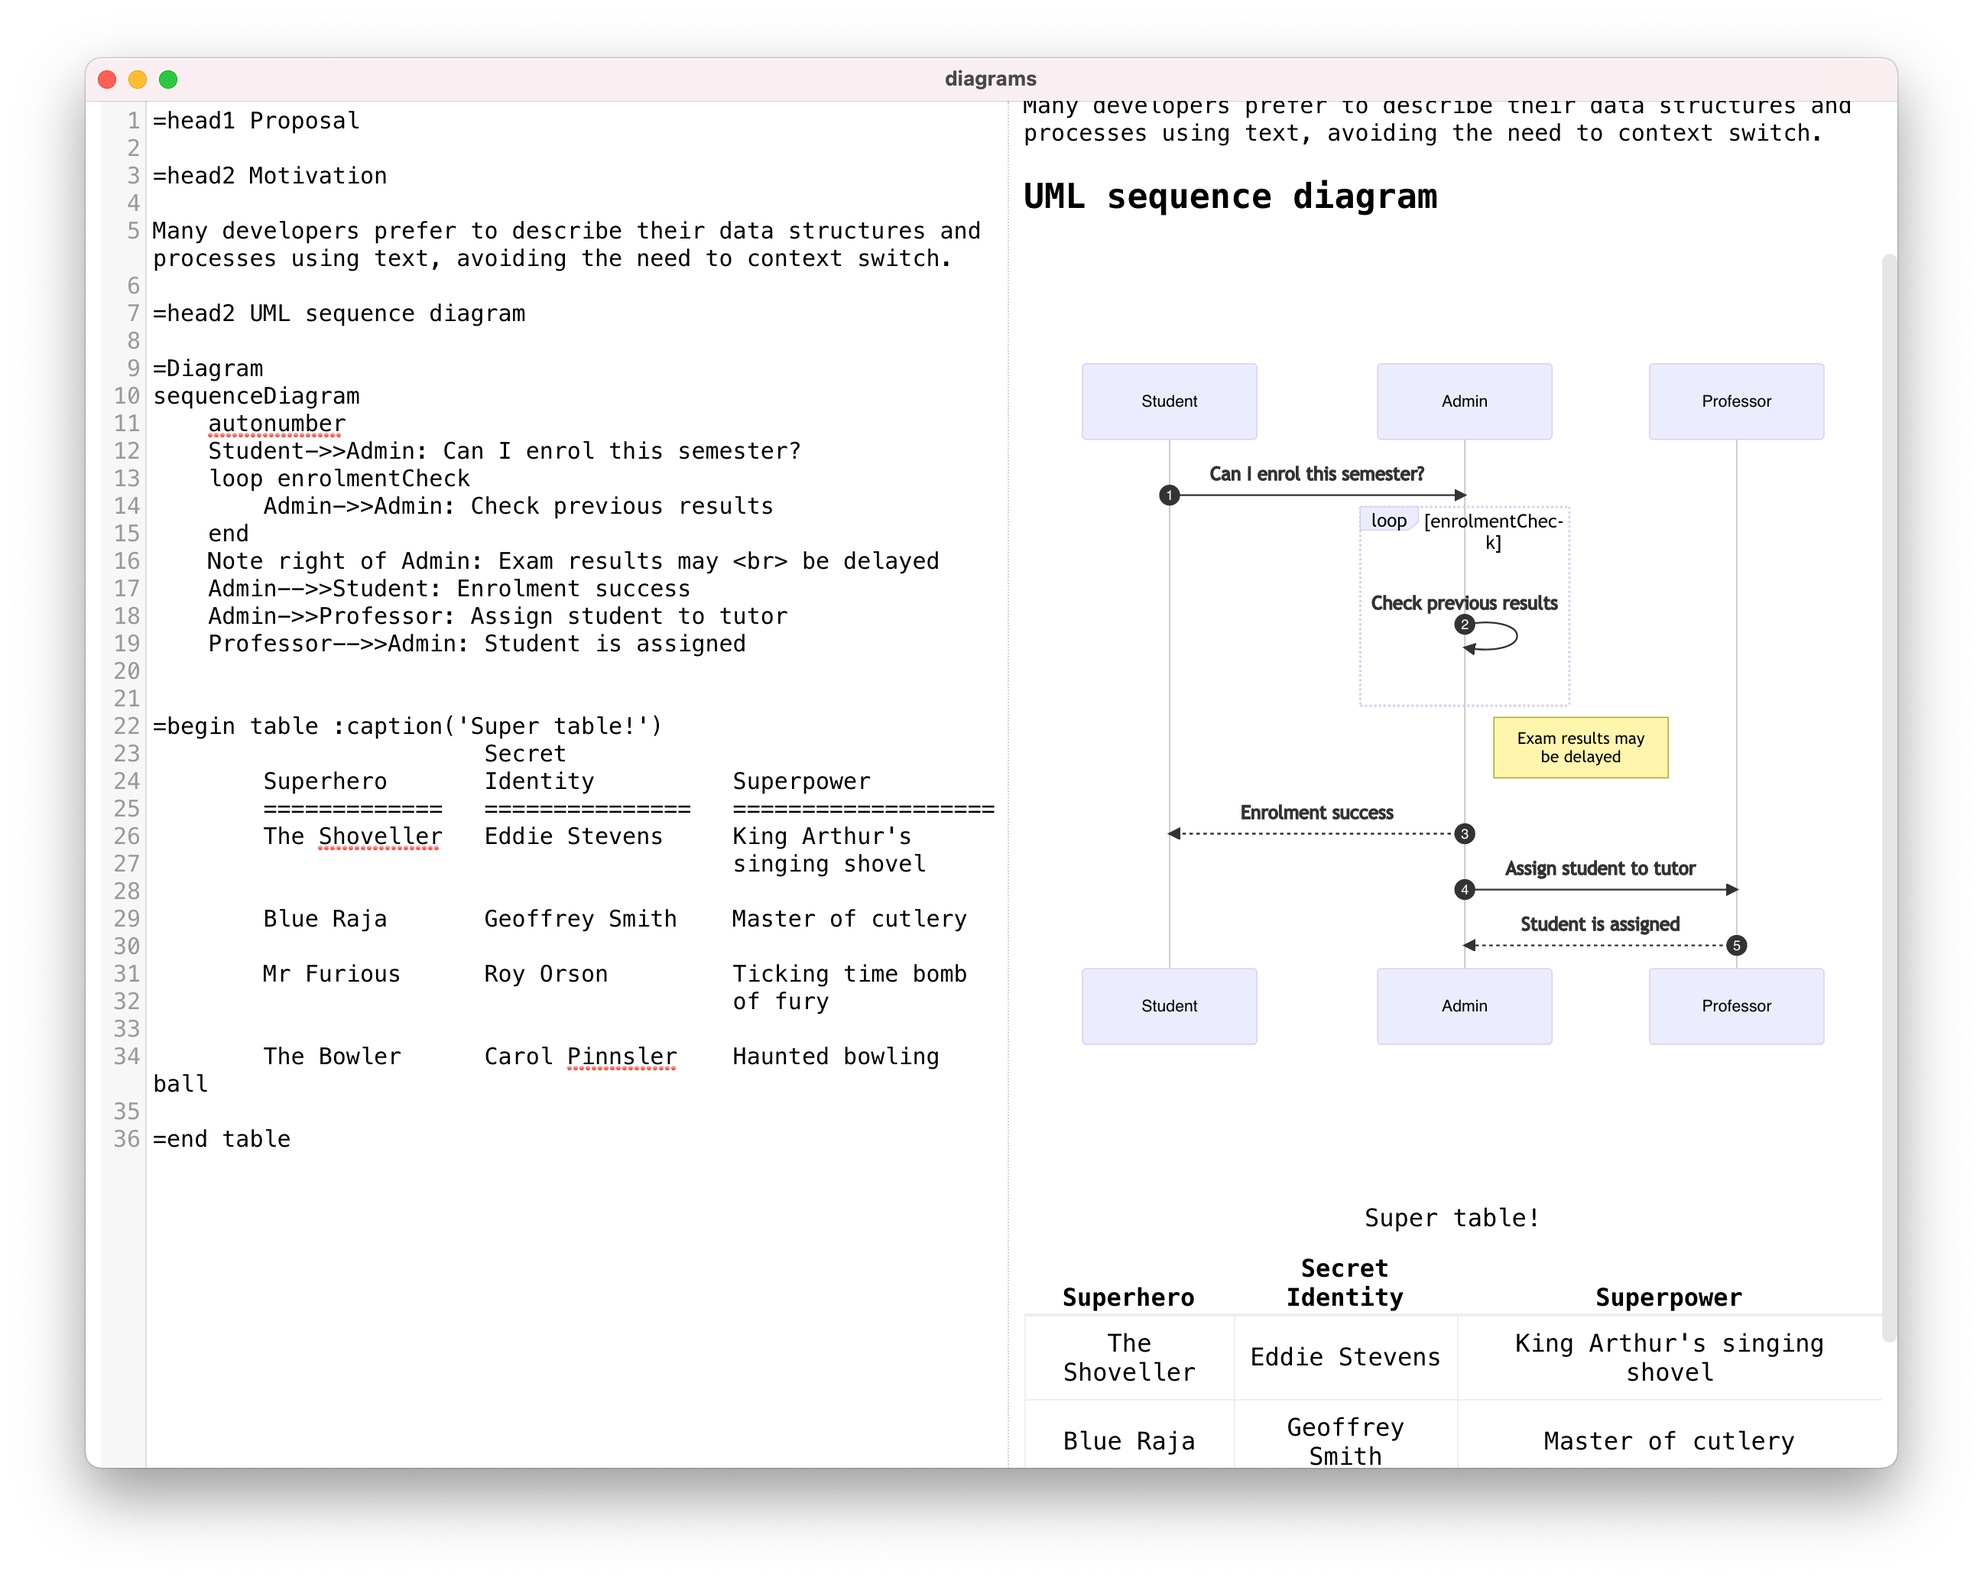
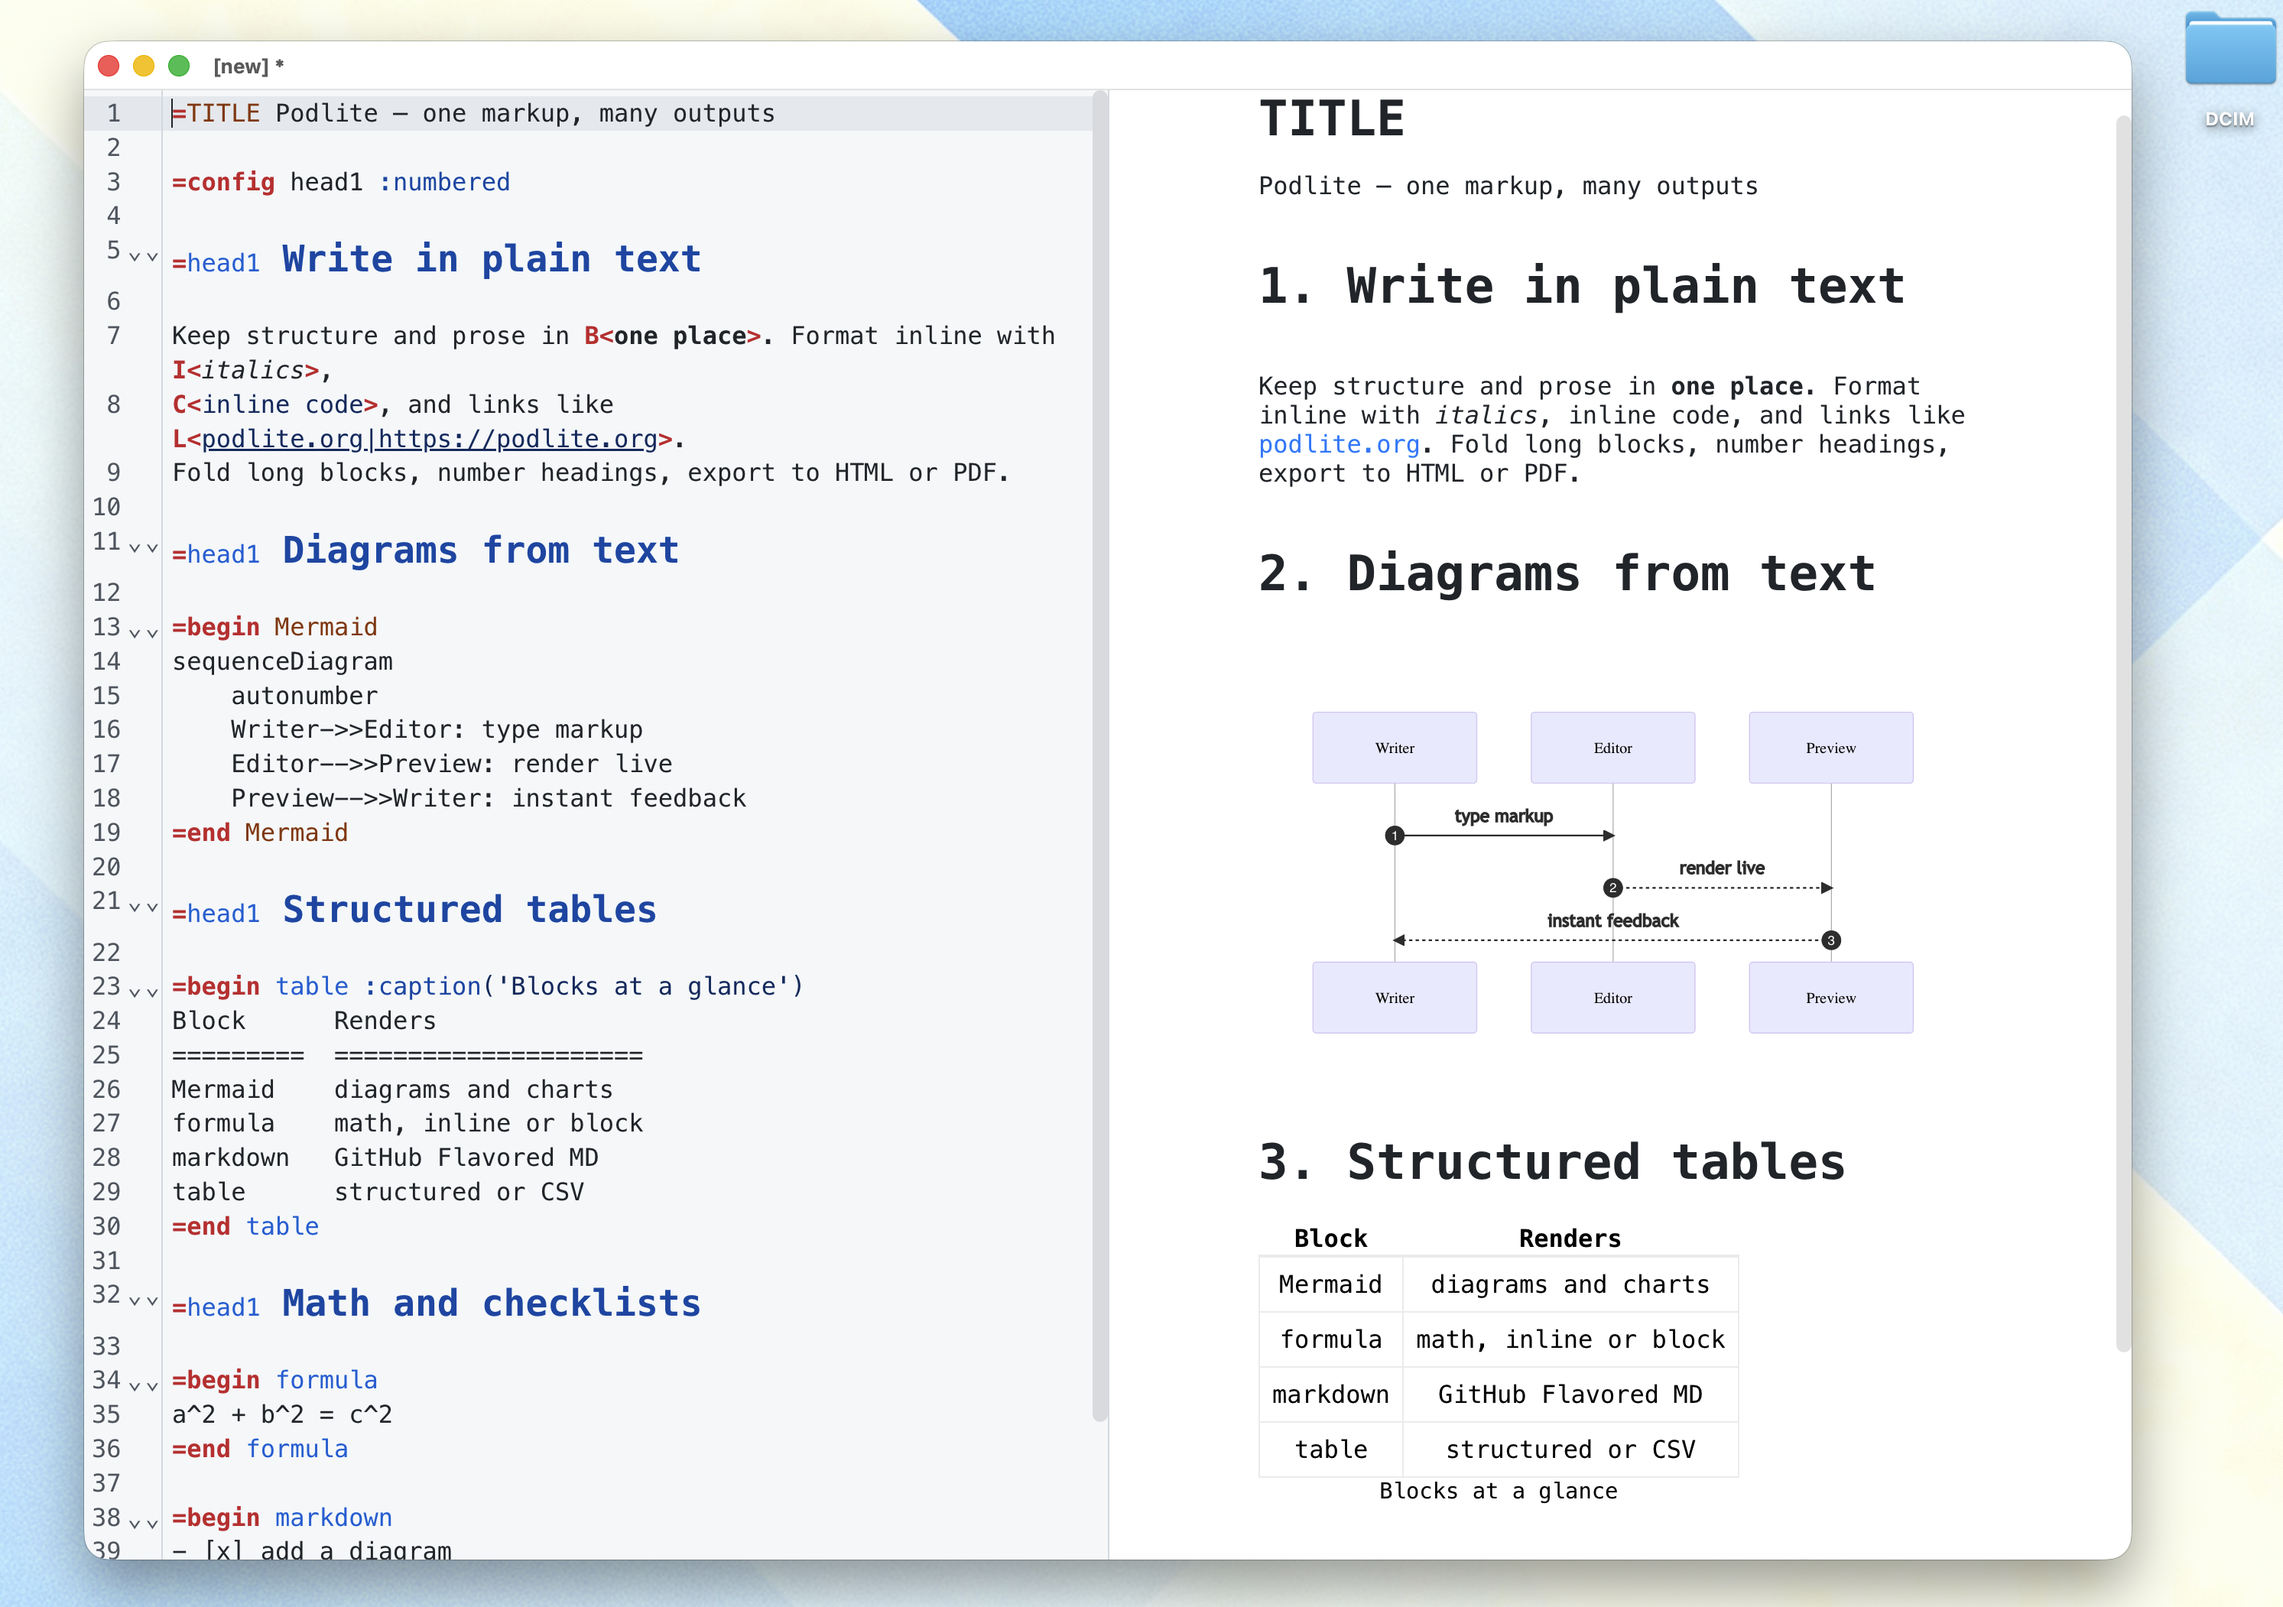
docs(readme): add editor screenshot and fix release badge link

diff --git a/readme.md b/readme.md
@@ -8,13 +8,17 @@
 
 A block-based markup editor for [Podlite](https://podlite.org) with live preview. Available on Windows, Linux and macOS.
 
-[![GitHub release](https://img.shields.io/github/v/release/zag/podlite-desktop)](https://github.com/zag/podlite-desktop/releases/latest)
+[![GitHub release](https://img.shields.io/github/v/release/podlite/podlite-desktop)](https://github.com/podlite/podlite-desktop/releases/latest)
 [![License: MIT](https://img.shields.io/badge/License-MIT-blue.svg)](LICENSE)
 [![Mac App Store](https://img.shields.io/badge/Mac_App_Store-available-blue)](https://apps.apple.com/us/app/podlite/id1526511053)
 [![Microsoft Store](https://img.shields.io/badge/Microsoft_Store-available-blue)](https://www.microsoft.com/store/apps/9NVNT9SNQJM8)
 [![Snap Store](https://img.shields.io/badge/Snap_Store-available-blue)](https://snapcraft.io/podlite)
 
 </div>
+
+<p align="center">
+  <img src="doc/Screenshot3.png" alt="Podlite Desktop: source and live preview side by side" width="900">
+</p>
 
 ## Get Podlite
 
